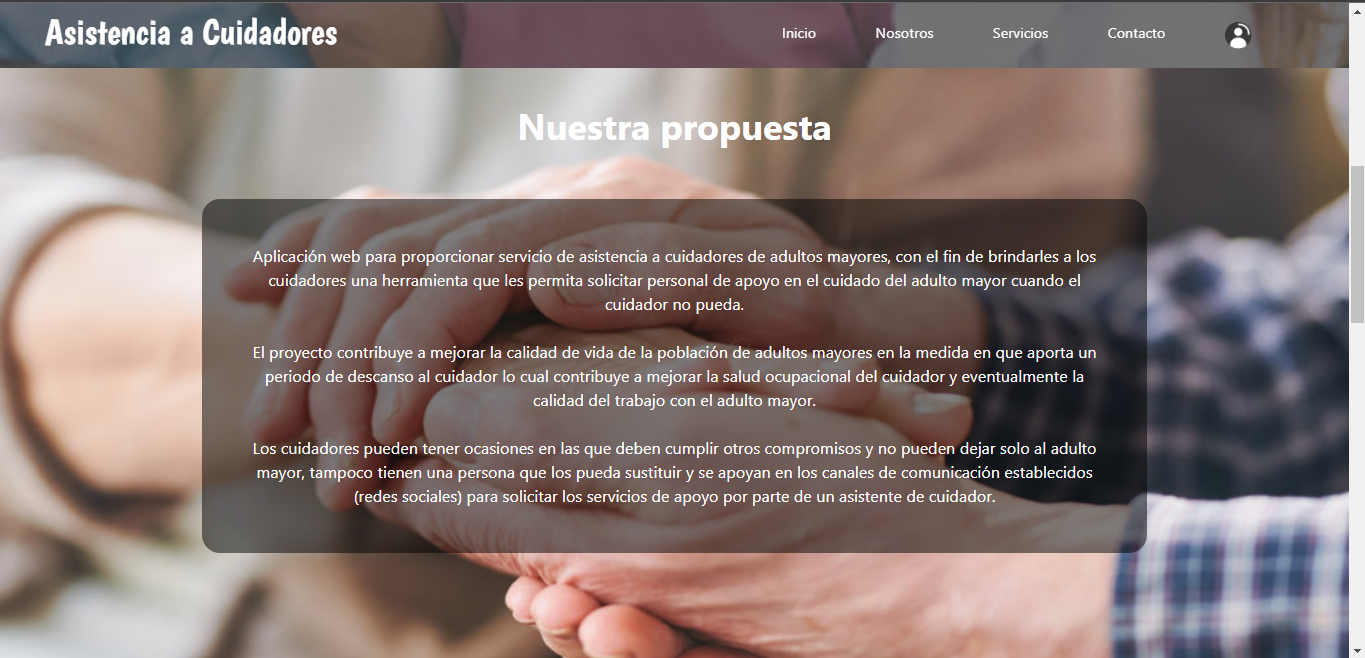
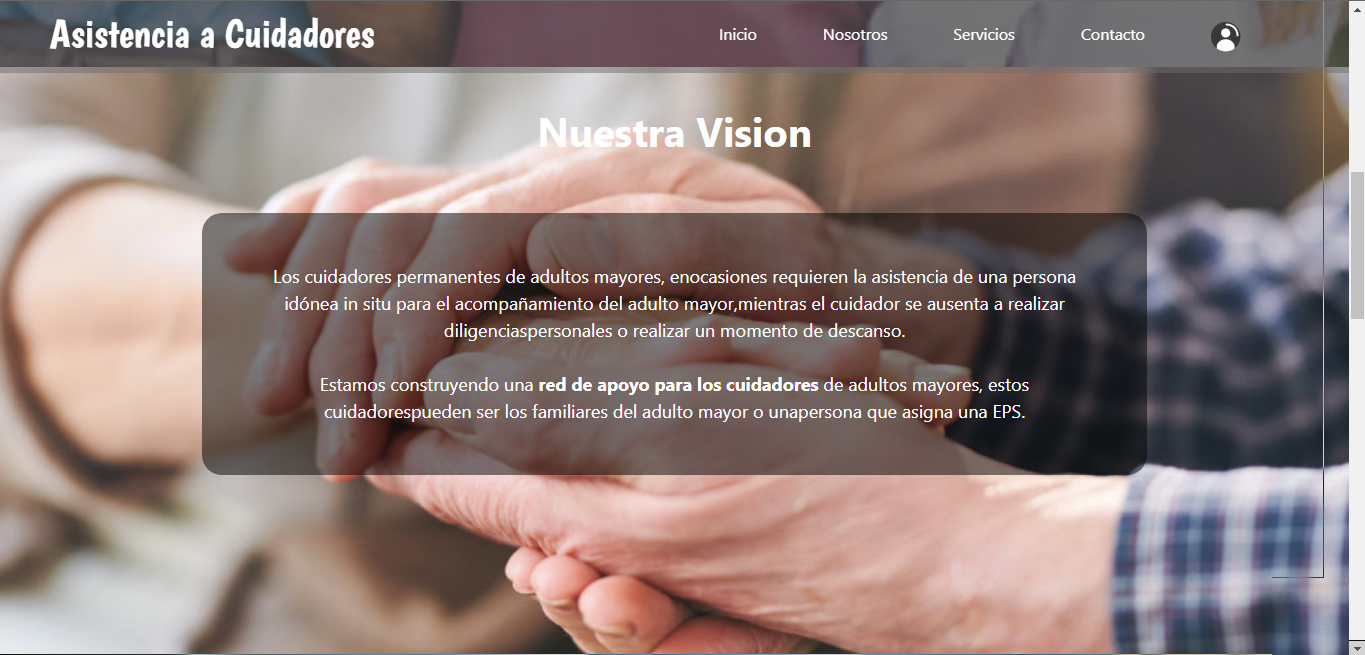
Correcciones en los mockups

diff --git a/inicio/index.html b/inicio/index.html
@@ -76,18 +76,13 @@
   </div>
 
   <div class="proposal d-flex justify-content-center align-items-center flex-column">
-    <h2>Nuestra propuesta</h2>
+    <h2>Nuestra Vision</h2>
     <p>
-      Aplicación web para proporcionar servicio de asistencia a cuidadores de adultos mayores, 
-      con el fin de brindarles a los cuidadores una herramienta que les permita solicitar personal de
-      apoyo en el cuidado del adulto mayor cuando el cuidador no pueda.<br><br>
-      El proyecto contribuye a mejorar la calidad de vida de la población de adultos mayores en 
-      la medida en que aporta un periodo de descanso al cuidador lo cual contribuye a mejorar la salud 
-      ocupacional del cuidador y eventualmente la calidad del trabajo con el adulto mayor. <br><br>
-      Los cuidadores pueden tener ocasiones en las que deben cumplir otros compromisos y no pueden dejar 
-      solo al adulto mayor, tampoco tienen una persona que los pueda sustituir y se apoyan en los canales 
-      de comunicación establecidos (redes sociales) para solicitar los servicios de apoyo por parte de un 
-      asistente de cuidador.
+      Los cuidadores permanentes de adultos mayores, enocasiones requieren la asistencia de una persona 
+      idónea in situ para el acompañamiento del adulto mayor,mientras el cuidador se ausenta a realizar 
+      diligenciaspersonales o realizar un momento de descanso. <br><br>
+      Estamos construyendo una <b>red de apoyo para los cuidadores</b> de adultos mayores, 
+      estos cuidadorespueden ser los familiares del adulto mayor o unapersona que asigna una EPS.
     </p>
   </div>
 
@@ -130,49 +125,7 @@
               
             </div>
             <div class="card-body">
-              <h5 class="card-title">Necesito un cuidador</h5>
-              <p class="card-text">Some quick example text to build on the card title and make up the bulk of the card's
-                content.</p>
-              <a href="#"><i class="fas fa-angle-down"></i></a>
-            </div>
-          </div>
-        </div>
-
-        <div class="col-12 col-sm-6 col-md-4 col-lg-3">
-          <div class="card">
-            <div class="cover cover-small">
-              
-            </div>
-            <div class="card-body">
-              <h5 class="card-title">Quiero ser cuidador</h5>
-              <p class="card-text">Some quick example text to build on the card title and make up the bulk of the card's
-                content.</p>
-              <a href="#"><i class="fas fa-angle-down"></i></a>
-            </div>
-          </div>
-        </div>
-
-        <div class="col-12 col-sm-6 col-md-4 col-lg-3">
-          <div class="card">
-            <div class="cover cover-small">
-              
-            </div>
-            <div class="card-body">
-              <h5 class="card-title">Soy Asistente</h5>
-              <p class="card-text">Some quick example text to build on the card title and make up the bulk of the card's
-                content.</p>
-              <a href="#"><i class="fas fa-angle-down"></i></a>
-            </div>
-          </div>
-        </div>
-
-        <div class="col-12 col-sm-6 col-md-4 col-lg-3">
-          <div class="card">
-            <div class="cover cover-small">
-              
-            </div>
-            <div class="card-body">
-              <h5 class="card-title">Soy enfermero</h5>
+              <h5 class="card-title">Necesito un Asistente</h5>
               <p class="card-text">Some quick example text to build on the card title and make up the bulk of the card's
                 content.</p>
               <a href="#"><i class="fas fa-angle-down"></i></a>

diff --git a/inicio/style.css b/inicio/style.css
@@ -22,7 +22,6 @@ body {
    color: rgb(19, 5, 1);
 }
 
-
 .cover {
     background-image: url('https://www.segg.es/media/reportajes/565/cuidador.jpg');
     background-color: rgba(0, 0, 0, .5);
@@ -145,7 +144,7 @@ body {
 /* Alineacion de Tarjetas de eventos */
 .cover-small {
     height: 100px;
-    width: 80%;
+    width: 100%;
     margin-top: initial;
     padding: initial;
     background-blend-mode: normal;
@@ -165,6 +164,7 @@ body {
 
 .card-body {
     background-color: rgba(0, 0, 0, .5);
+    border-radius: 15px;
 }
 .card-body a {
     font-size: 40px;
@@ -218,16 +218,6 @@ body {
         display: block;
     }
 }
-/* .carousel-control-prev-icon {
-    background-image: url("img/flecha-izquierda.png") !important;
-    width: 80px !important;
-    height: 85px !important;
-}
-.carousel-control-next-icon {
-    background-image: url("img/flecha-derecha.png") !important;
-    width: 80px !important;
-    height: 85px !important;
-} */
 
 /* Estilos del Footer*/
 .footer-a {
